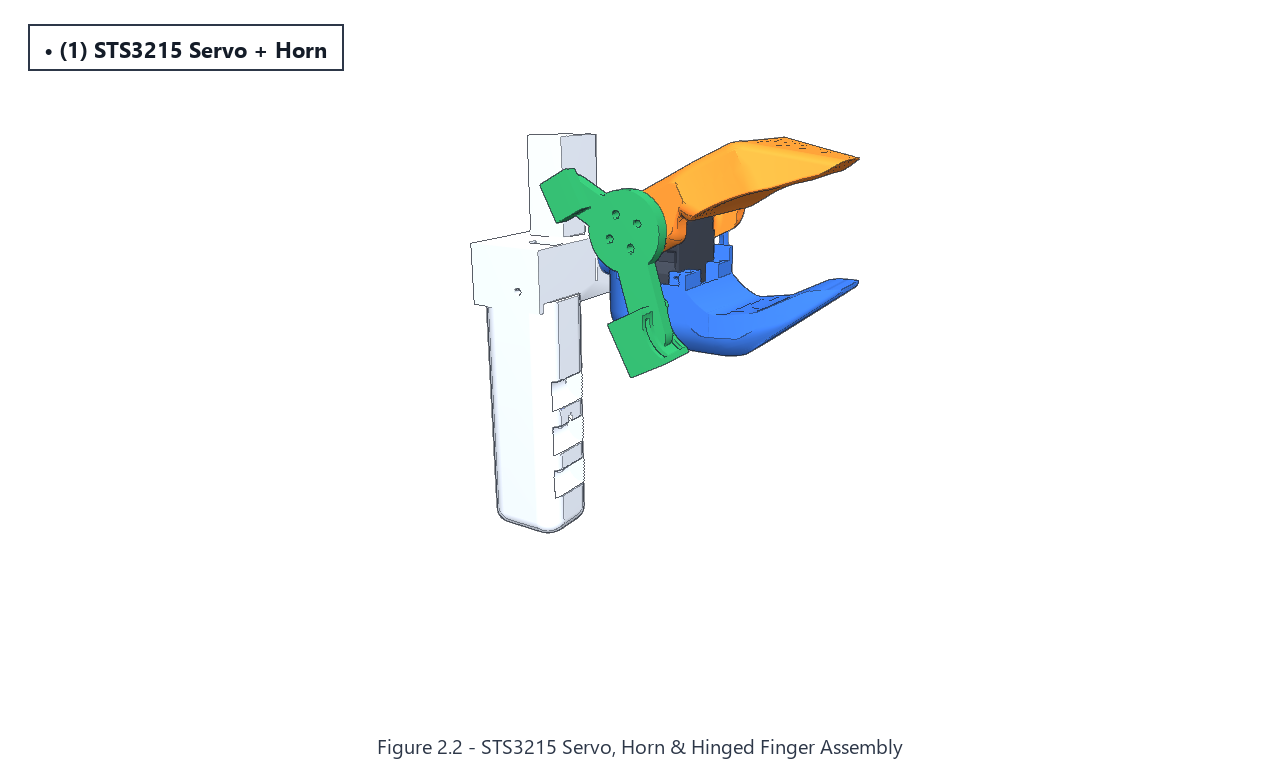
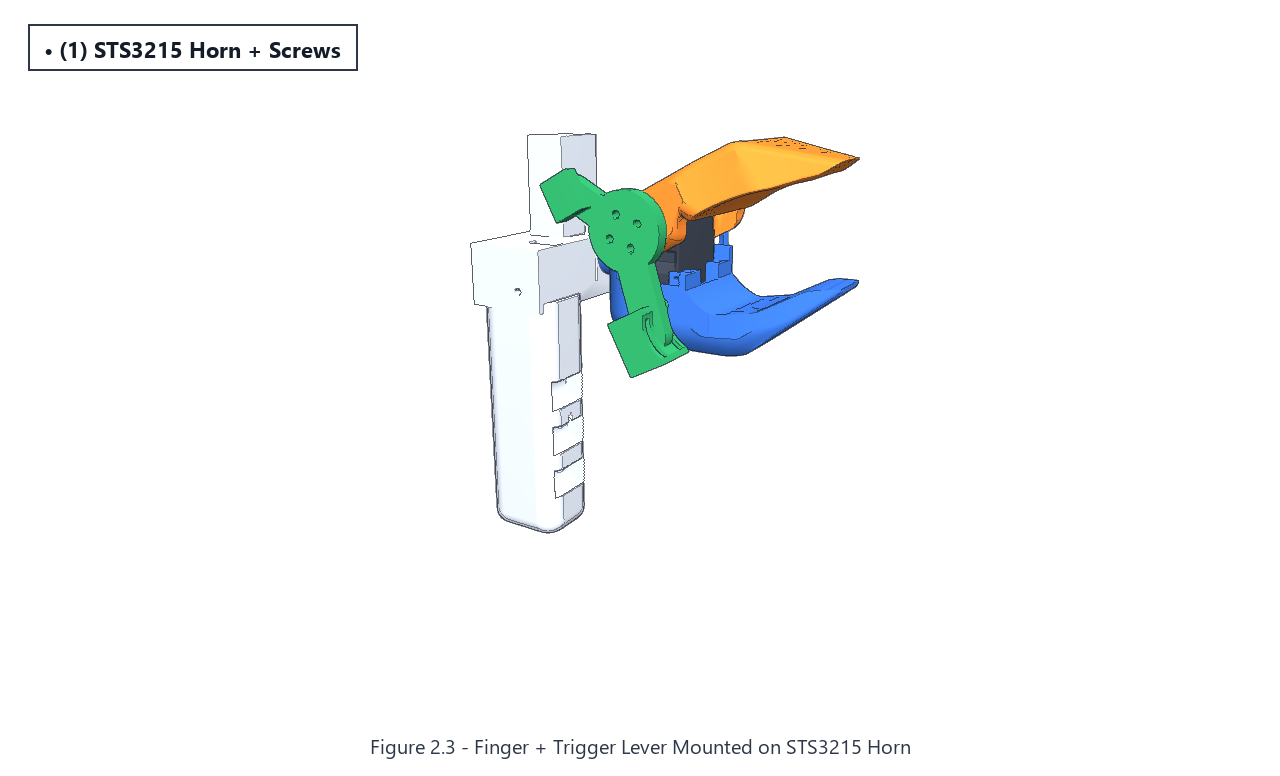
Add dedicated STS3215 servo installation figure and Stage 4 Electronics & Wiring section

Changed region(s): [[0.2812, 0.9588, 0.7188, 0.9897], [0.1562, 0.0309, 0.2812, 0.0928]]

diff --git a/docs/render_assembly_manual.py b/docs/render_assembly_manual.py
@@ -211,8 +211,28 @@ def make_04_lever_on_finger():
     out.save(IMG_DIR / "04_lever_on_finger.png")
 
 
+def make_05a_servo_install():
+    """Figure 2.2 - Insert Feetech STS3215 Servo into Sourccey Base Cavity."""
+    xml = _base_header(1280, 720, fovy=30) + """
+    <geom type="mesh" mesh="umi_grip" material="ctx_mat"/>
+    <geom type="mesh" mesh="umi_base" material="base_mat"/>
+    <!-- STS3215 servo exploded upward/outward cleanly above the base servo bay -->
+    <geom type="mesh" pos="0.0 0.0 0.068" mesh="umi_servo" material="servo_mat"/>
+    <geom type="capsule" fromto="0.0 -0.005 0.005  0.0 -0.005 0.062" size="0.0007" material="guide_mat"/>
+    <geom type="capsule" fromto="-0.020 -0.005 0.005  -0.020 -0.005 0.062" size="0.0007" material="guide_mat"/>
+    <camera name="cam" pos="0.18 -0.32 0.08" xyaxes="0.86 0.51 0 -0.18 0.30 0.94"/>
+  </worldbody></mujoco>"""
+    im = _render_tech_view(xml, 1280, 720)
+    out = _frame_figure(
+        im,
+        "Figure 2.2 - Feetech STS3215 Servo Installation into Sourccey Base Cavity",
+        ["(1) Feetech STS3215 7.4V", "Servo Mounting Screws"],
+    )
+    out.save(IMG_DIR / "05a_servo_install.png")
+
+
 def make_05_assembled():
-    """Figure 2.2 - Assemble STS3215 Servo, Horn & Finger."""
+    """Figure 2.3 - Mount Finger + Trigger Lever onto STS3215 Horn."""
     xml = _base_header(1280, 720, fovy=30) + """
     <geom type="mesh" mesh="umi_grip" material="ctx_mat"/>
     <geom type="mesh" mesh="umi_base" material="base_mat"/>
@@ -225,8 +245,91 @@ def make_05_assembled():
     <camera name="cam" pos="0.18 -0.32 0.05" xyaxes="0.85 0.52 0 -0.15 0.25 0.96"/>
   </worldbody></mujoco>"""
     im = _render_tech_view(xml, 1280, 720, qpos=[math.radians(28.0)])
-    out = _frame_figure(im, "Figure 2.2 - STS3215 Servo, Horn & Hinged Finger Assembly", ["(1) STS3215 Servo + Horn"])
+    out = _frame_figure(im, "Figure 2.3 - Finger + Trigger Lever Mounted on STS3215 Horn", ["(1) STS3215 Horn + Screws"])
     out.save(IMG_DIR / "05_assembled_gripper.png")
+
+
+def make_07b_wiring():
+    """Figure 4.1 - Clean Sourccey-manual style Electronics & Wiring Diagram."""
+    W, H = 1280, 680
+    img = Image.new("RGB", (W, H), (255, 255, 255))
+    draw = ImageDraw.Draw(img)
+
+    f_title = get_font(20, bold=True)
+    f_sub = get_font(15, bold=False)
+    f_wire = get_font(15, bold=True)
+    f_warn = get_font(16, bold=True)
+
+    def box(x0, y0, x1, y1, fill, outline, title, lines):
+        draw.rounded_rectangle([x0, y0, x1, y1], radius=10, fill=fill, outline=outline, width=3)
+        draw.text(((x0 + x1) // 2, y0 + 24), title, fill=(20, 28, 40), font=f_title, anchor="mm")
+        for i, ln in enumerate(lines):
+            draw.text(((x0 + x1) // 2, y0 + 54 + i * 22), ln, fill=(65, 78, 96), font=f_sub, anchor="mm")
+
+    # Left: Sourccey UMI Hardware Group
+    draw.rounded_rectangle([38, 92, 412, 540], radius=14, fill=(248, 250, 252), outline=(148, 163, 184), width=2)
+    draw.text((225, 118), "SOURCCEY UMI (HANDHELD)", fill=(51, 65, 85), font=f_wire, anchor="mm")
+
+    box(66, 148, 384, 290, (239, 246, 255), (37, 99, 235), "Feetech STS3215 Servo", [
+        "7.4 V bus servo (ID 6)",
+        "Torque OFF (read-only encoder)",
+        "0.088 deg resolution @ ~200 Hz",
+    ])
+    box(66, 355, 384, 495, (240, 253, 244), (22, 163, 74), "Sourccey 20x20 mm Camera", [
+        "Mounted behind +y Ø25 mm wing",
+        "Standard USB UVC video stream",
+        "Same viewpoint as Sourccey arm",
+    ])
+
+    # Middle: Bus Servo Adapter + 7.4V PSU
+    box(495, 148, 825, 290, (255, 247, 237), (234, 88, 12), "USB Bus Servo Adapter", [
+        "Waveshare Bus Servo Adapter",
+        "or Feetech URT-1 (1 Mbps TTL)",
+        "Bridges 3-pin bus <-> USB",
+    ])
+    box(520, 355, 800, 475, (254, 242, 242), (220, 38, 38), "7.4 V DC Power Supply", [
+        "2S LiPo or 7.4 V bench adapter",
+        "Powers STS3215 encoder",
+        "Check + / - polarity!",
+    ])
+
+    # Right: Host PC / Raspberry Pi
+    box(920, 210, 1235, 430, (241, 245, 249), (30, 41, 59), "PC / Raspberry Pi", [
+        "Runs record_episode.py or",
+        "Sourccey UMI Studio (space/app.py)",
+        "Serial: /dev/ttyACM0 (or COMx)",
+        "Video: USB Camera 0",
+        "Shared monotonic clock sync",
+    ])
+
+    # Wires
+    # 1. STS3215 <-> Adapter (3-pin TTL bus)
+    draw.line([(384, 218), (495, 218)], fill=(37, 99, 235), width=5)
+    draw.text((440, 198), "3-pin Bus", fill=(37, 99, 235), font=f_wire, anchor="mm")
+    draw.text((440, 236), "(TTL)", fill=(71, 85, 105), font=f_sub, anchor="mm")
+
+    # 2. 7.4V PSU -> Adapter (Red/Black power)
+    draw.line([(652, 355), (652, 290)], fill=(220, 38, 38), width=5)
+    draw.line([(668, 355), (668, 290)], fill=(30, 41, 59), width=5)
+    draw.text((748, 322), "7.4 V (+ / GND)", fill=(220, 38, 38), font=f_wire, anchor="mm")
+
+    # 3. Adapter -> PC (USB-C)
+    draw.line([(825, 218), (875, 218), (875, 285), (920, 285)], fill=(234, 88, 12), width=5)
+    draw.text((872, 200), "USB", fill=(234, 88, 12), font=f_wire, anchor="mm")
+
+    # 4. Wrist Camera -> PC (USB direct, routed cleanly along bottom)
+    draw.line([(384, 495), (384, 520), (875, 520), (875, 375), (920, 375)], fill=(22, 163, 74), width=5)
+    draw.text((640, 504), "USB Cable (route with zip ties down rear of pistol grip)", fill=(22, 163, 74), font=f_wire, anchor="mm")
+
+    # Safety callout banner at bottom
+    draw.rounded_rectangle([38, 575, 1235, 635], radius=8, fill=(254, 249, 195), outline=(202, 138, 4), width=2)
+    draw.text((636, 605), "IMPORTANT: Power STS3215 with 7.4 V via the bus adapter (USB 5 V alone will not power the encoder). Keep torque OFF.", fill=(113, 63, 18), font=f_warn, anchor="mm")
+
+    out = _frame_figure(
+        img,
+        "Figure 4.1 - Sourccey UMI Electronics & Wiring Diagram (STS3215 + 20x20 mm Wrist Camera)",
+    )
+    out.save(IMG_DIR / "07b_wiring.png")
 
 
 def make_06_spring():
@@ -326,8 +429,10 @@ if __name__ == "__main__":
     make_02_inserts()
     make_03_grip_on_base()
     make_04_lever_on_finger()
+    make_05a_servo_install()
     make_05_assembled()
     make_06_spring()
     make_07_camera()
+    make_07b_wiring()
     make_09_operation()
     print("Generated all Sourccey-manual style assembly figures in", IMG_DIR)

diff --git a/docs/03-assembly.md b/docs/03-assembly.md
@@ -52,13 +52,16 @@ Tools needed: soldering iron (~220 °C), M3 hex keys, needle-nose pliers, scisso
 1. Fasten the Trigger Lever flat onto the `-y` outer face of the Sourccey Finger (4-hole cross) as shown in **Figure 2.1**.
    - a. `(4) M3x16mm` *(if screws are already installed on that side, replace them with screws 6 mm longer)*
    - b. Check that the lever and finger move as one solid piece with no play.
-2. Install the STS3215 servo, horn, and Finger + Lever sub-assembly into the Sourccey Base as shown in **Figure 2.2** (following the official *Sourccey Assembly Manual*).
-   - a. Keep the servo **unpowered (torque off)**.
-   - b. Sweep the finger by hand from `-5°` (closed) to `60°` (open): verify zero rubbing and confirm the lever's tail tab hits the open stop at `~58 to 60°`.
+2. Insert the **Feetech STS3215 servo** into the central cavity of the Sourccey Base and fasten it with its mounting screws as shown in **Figure 2.2** (connector port facing the rear/open side so the 3-pin bus cable routes cleanly down the grip).
+   - a. `(1) Feetech STS3215 7.4V` (prefer 1:147 or 1:191 gear ratio; keep torque OFF).
+3. Attach the servo horn and mount the Finger + Trigger Lever sub-assembly onto the STS3215 shaft as shown in **Figure 2.3** (following the official *Sourccey Assembly Manual*).
+   - a. Sweep the finger by hand from `-5°` (closed) to `60°` (open): verify zero rubbing and confirm the lever's tail tab hits the open stop at `~58 to 60°`.
 
 ![Figure 2.1 - Trigger Lever to Sourccey Finger](img/04_lever_on_finger.png)
 
-![Figure 2.2 - STS3215 Servo, Horn & Hinged Finger Assembly](img/05_assembled_gripper.png)
+![Figure 2.2 - Feetech STS3215 Servo Installation](img/05a_servo_install.png)
+
+![Figure 2.3 - Finger + Trigger Lever Mounted on STS3215 Horn](img/05_assembled_gripper.png)
 
 ---
 
@@ -86,7 +89,36 @@ Tools needed: soldering iron (~220 °C), M3 hex keys, needle-nose pliers, scisso
 
 ---
 
-## Stage 4: Ergonomics, ArUco Stickers & Verification
+## Stage 4: Electronics & Wiring
+
+### Materials
+| Type | Name | Count |
+|---|---|---|
+| Electronics | Feetech / Waveshare USB Bus Servo Adapter (e.g. URT-1) | 1 |
+| Electronics | 7.4 V DC Power Supply (2S LiPo or 7.4 V bench adapter) | 1 |
+| Cable | 3-Pin Feetech TTL Servo Bus Cable | 1 |
+| Cable | USB-C / USB Data Cable (Adapter -> PC) | 1 |
+| Cable | Sourccey 20x20 mm Camera USB Cable (Camera -> PC) | 1 |
+| Hardware | Zip Ties / Tape (cable management) | 4 |
+
+### Procedure
+1. Connect the **3-pin TTL bus cable** from the STS3215 servo to the **USB Bus Servo Adapter** as shown in **Figure 4.1**.
+2. Connect the **7.4 V power supply** to the bus adapter power terminals (double-check `+` and `GND` polarity before turning on).
+   - a. USB 5 V alone does **not** power the STS3215 encoder; the 7.4 V supply is required even with torque turned off.
+   - b. Make sure the servo has its own bus ID (examples in this repo use `ID 6`).
+3. Plug both the **USB Bus Servo Adapter** and the **Sourccey 20x20 mm Wrist Camera** into your PC or Raspberry Pi.
+4. Bundle both cables cleanly down the back of the pistol grip with zip ties, leaving gentle slack at the wrist so pulling the trigger or turning your hand never tugs on the connectors.
+5. Run calibration and verify live angle + camera preview:
+   ```bash
+   python software/sts_angle.py calibrate --port /dev/ttyACM0 --id 6
+   python space/app.py
+   ```
+
+![Figure 4.1 - Electronics & Wiring Diagram](img/07b_wiring.png)
+
+---
+
+## Stage 5: Ergonomics, ArUco Stickers & Verification
 
 ### Materials
 | Type | Name | Count |
@@ -96,10 +128,10 @@ Tools needed: soldering iron (~220 °C), M3 hex keys, needle-nose pliers, scisso
 
 ### Procedure
 1. Stick `id 0` on the top flat face of the orange finger and `id 1` on the outer face of the blue fixed jaw (print at 100% scale / 300 DPI).
-2. Hold the UMI as shown in **Figure 4.0**: palm behind the grip, 3 fingers in the grip grooves, index finger in the velcro loop on the green trigger pad.
-3. Verify the full sweep shown in **Figure 4.1**: released = open (`q = 60°`, ~82 mm gap), pulled = closed (`q = -5°`, ~10.6 mm gap).
-4. Wire up the STS3215 + 20x20 mm camera and run calibration in [`04-electronics-and-software.md`](04-electronics-and-software.md), then complete [`BENCH_CHECKLIST.md`](../BENCH_CHECKLIST.md).
+2. Hold the UMI as shown in **Figure 5.0**: palm behind the grip, 3 fingers in the grip grooves, index finger in the velcro loop on the green trigger pad.
+3. Verify the full sweep shown in **Figure 5.1**: released = open (`q = 60°`, ~82 mm gap), pulled = closed (`q = -5°`, ~10.6 mm gap).
+4. Complete [`BENCH_CHECKLIST.md`](../BENCH_CHECKLIST.md) before recording real training datasets (full software/web-app guide in [`04-electronics-and-software.md`](04-electronics-and-software.md)).
 
-![Figure 4.0 - Grip & Trigger Ergonomics](img/08_how_to_hold.png)
+![Figure 5.0 - Grip & Trigger Ergonomics](img/08_how_to_hold.png)
 
-![Figure 4.1 - Trigger Sweep & Joint Range](img/09_operation.png)
+![Figure 5.1 - Trigger Sweep & Joint Range](img/09_operation.png)
